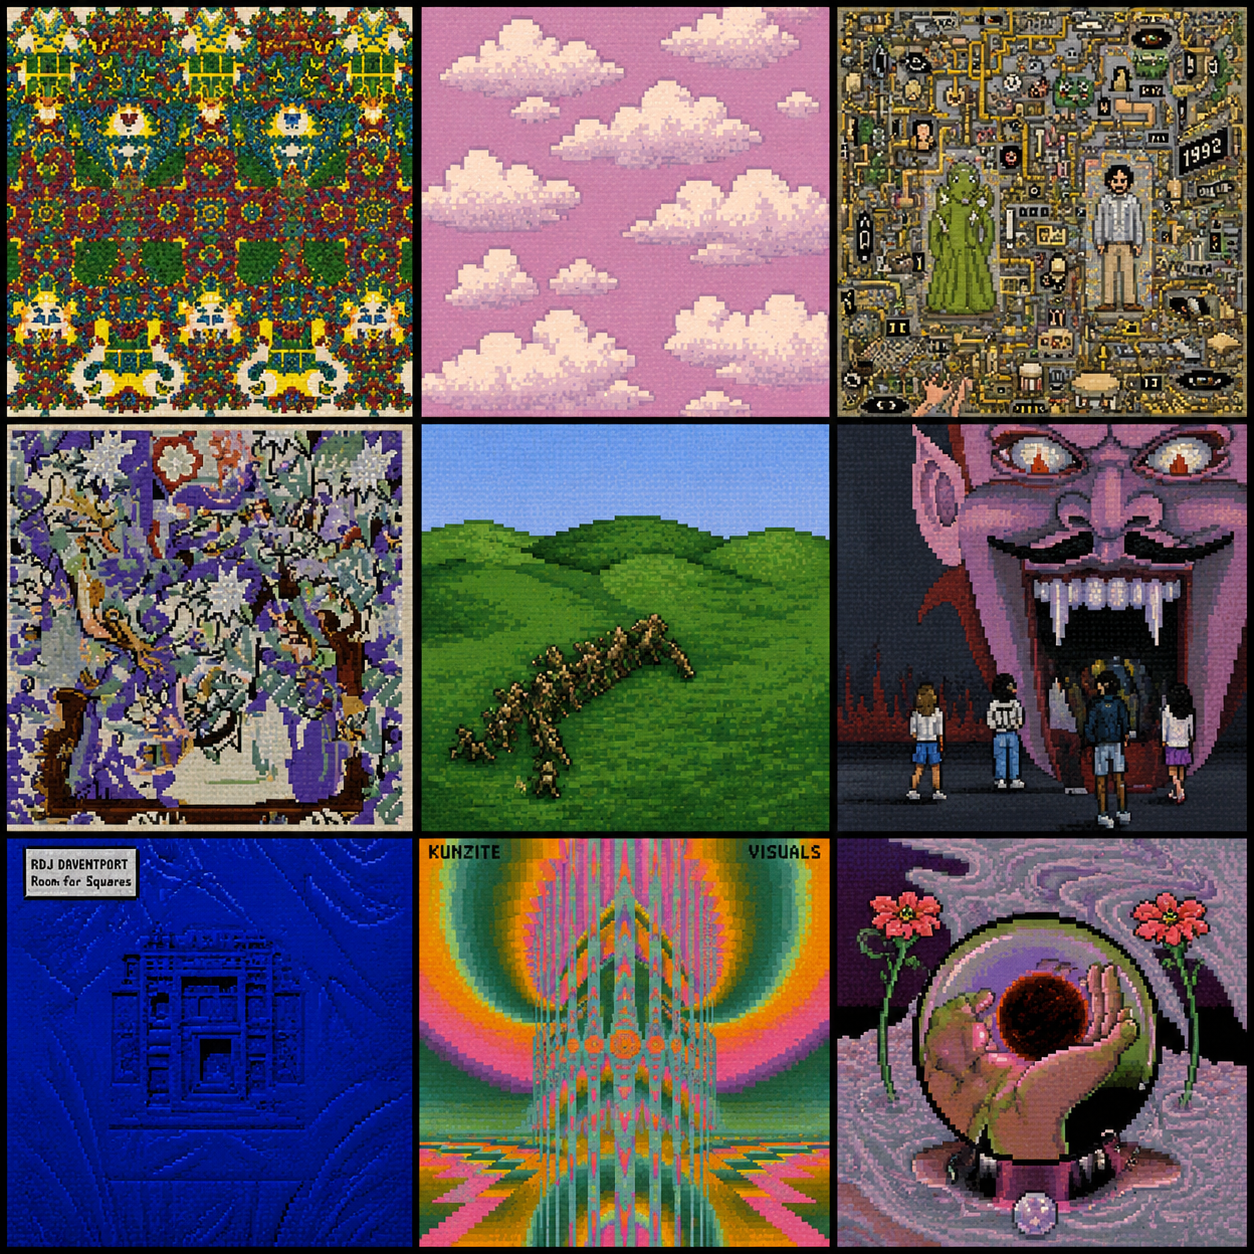
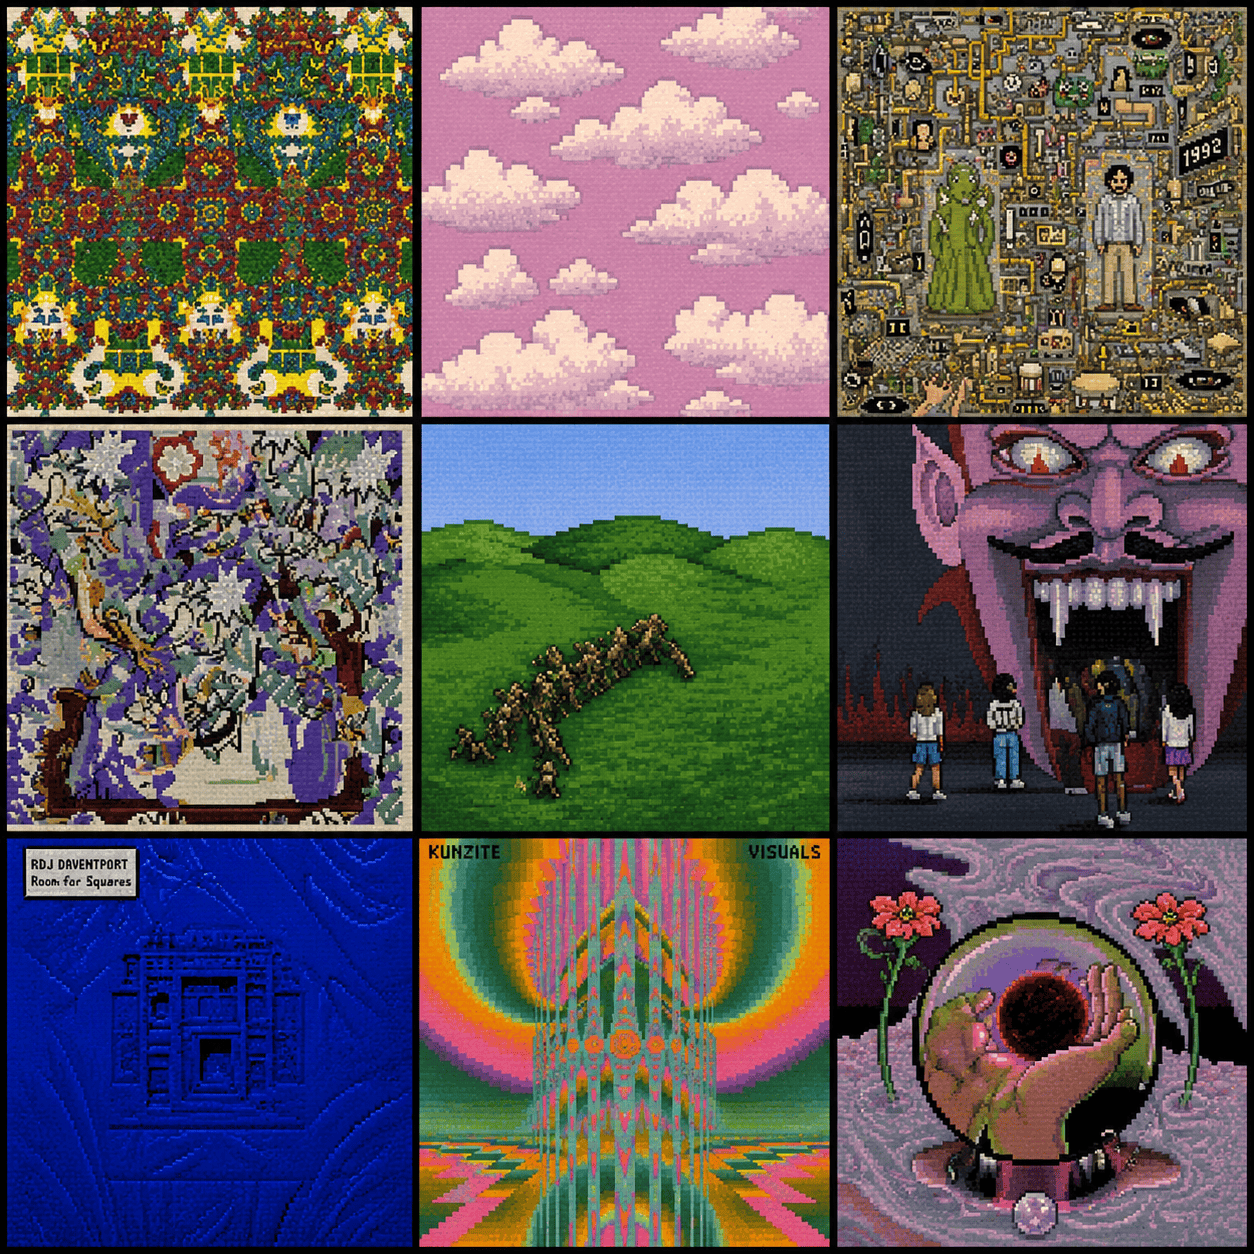
feat: add the third mixtape, compress pngs

diff --git a/src/mixtapes/the_third.md b/src/mixtapes/the_third.md
@@ -1,0 +1,28 @@
+---
+title: 'The Third'
+genre: ['Hip hop', 'Glitch hop', 'Abstract hip hop']
+href:
+  {
+    apple: 'https://music.apple.com/es/playlist/the-third/pl.u-EdAVzvbuDAxlP9l?l=en',
+    youtube: 'https://music.youtube.com/playlist?list=PLHLBnjrrw-rXUqRCC179swYOyfr1rE-RK&si=K5cDo6KW8wgpkC4J',
+    spotify: 'https://open.spotify.com/playlist/6RMMaBIPeMVovGEJBbAjP6?si=5c05b848899e4b20',
+  }
+cover:
+  { default: '../assets/the_third.jpg', retro: '../assets/retro/the_third.png' }
+date: 2606
+---
+
+Track List
+
+- Deltron 3030 - 3030
+- Flying Lotus - Do the Astral Plane
+- Heiroglyphics - Make Your Move
+- TOBACCO - Hawker Boat
+- Madvillian - All Caps
+- DJ Shadow - Changeling
+- Dr. Octagon - Blue Flowers
+- Prefuse 73 - Plastic
+- Gorillaz - Latin Simone
+- J Dilla - Don't Cry
+- Turnstile, BADBADNOTGOOD & Blood Orange - Alien Love Call
+- Thundercat - Dragonball Durag
